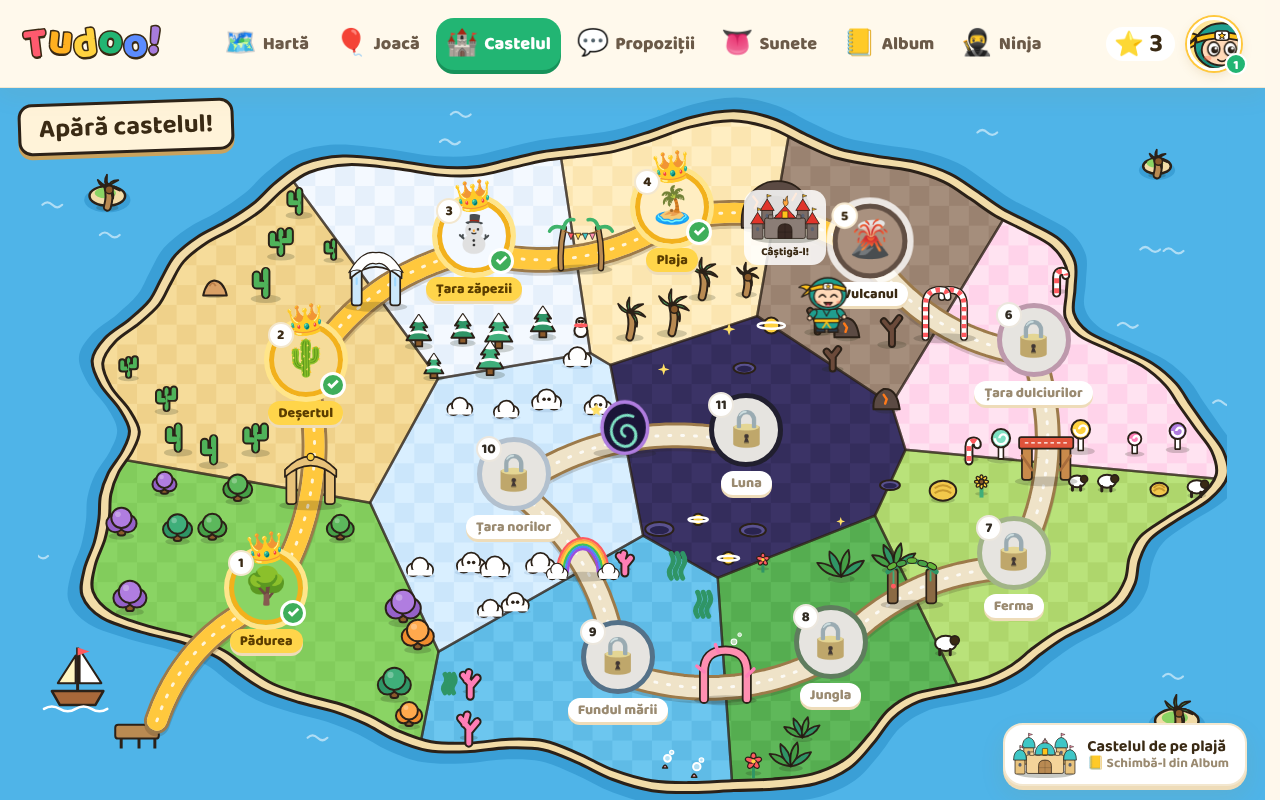
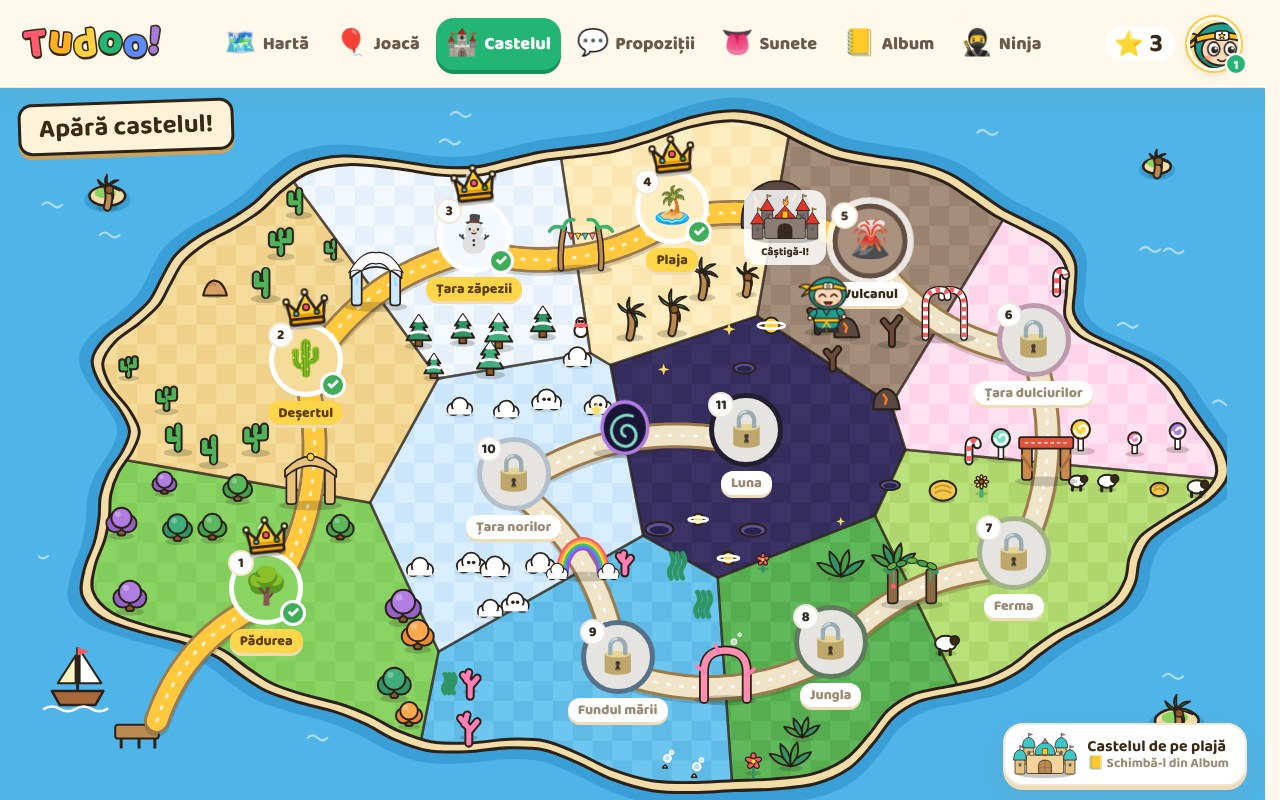
Castelul: bigger crown and white border on finished lands (#76)
* Add 'Castelul' tower-defense mode: answer to earn coins, send friends against waves

Claude-Session: https://claude.ai/code/session_016fNXyxu9U2zyHjQozgnxy4

* Castelul stars on the new x3 scale (win 15)

Claude-Session: https://claude.ai/code/session_016fNXyxu9U2zyHjQozgnxy4

* Castelul: 5 new lands, castle stickers in the Album, questions asked in different ways

Claude-Session: https://claude.ai/code/session_016fNXyxu9U2zyHjQozgnxy4

* Castelul: 5 more lands with new path shapes (loop, snake, waves, steps, narrowing waves)

Claude-Session: https://claude.ai/code/session_016fNXyxu9U2zyHjQozgnxy4

* Castelul: the lands become one road, walked from stop to stop

Claude-Session: https://claude.ai/code/session_016fNXyxu9U2zyHjQozgnxy4

* Castelul road: drawn edges between lands, a gate into each land, more scenery

Claude-Session: https://claude.ai/code/session_016fNXyxu9U2zyHjQozgnxy4

* Castelul: horizontal island world map on desktop

Claude-Session: https://claude.ai/code/session_016fNXyxu9U2zyHjQozgnxy4

* Castelul: highlight finished lands, drop stop circle shadow

Claude-Session: https://claude.ai/code/session_016fNXyxu9U2zyHjQozgnxy4

* Castelul: island map fills the screen under the top bar on desktop

Claude-Session: https://claude.ai/code/session_016fNXyxu9U2zyHjQozgnxy4

* Castelul: bigger outlined crown and white border on finished lands

Claude-Session: https://claude.ai/code/session_016fNXyxu9U2zyHjQozgnxy4

---------

diff --git a/src/tower/Sprites.tsx b/src/tower/Sprites.tsx
@@ -150,3 +150,27 @@ export function SpriteIcon({ ally, size = 56 }: { ally: AllyKind; size?: number 
     </svg>
   )
 }
+
+/** Big outlined crown for finished lands on the maps. */
+export function Crown({ size = 48 }: { size?: number }) {
+  return (
+    <svg width={size} height={size * 0.8} viewBox="0 0 60 48" aria-hidden>
+      <path
+        d="M6 16 L18 28 L30 6 L42 28 L54 16 L50 40 L10 40 Z"
+        fill="#ffcf2e"
+        stroke="#2b2118"
+        strokeWidth="3.5"
+        strokeLinejoin="round"
+      />
+      <path d="M10 34 L50 34" stroke="#e59a00" strokeWidth="4" />
+      <rect x="9" y="38" width="42" height="7" rx="3" fill="#f5a400" stroke="#2b2118" strokeWidth="3.5" />
+      <circle cx="30" cy="24" r="4" fill="#ff4d6d" stroke="#2b2118" strokeWidth="2" />
+      <circle cx="17" cy="31" r="3" fill="#4fb4e8" stroke="#2b2118" strokeWidth="2" />
+      <circle cx="43" cy="31" r="3" fill="#3fae5a" stroke="#2b2118" strokeWidth="2" />
+      <circle cx="6" cy="15" r="3.5" fill="#fff3c4" stroke="#2b2118" strokeWidth="2.5" />
+      <circle cx="30" cy="5" r="3.5" fill="#fff3c4" stroke="#2b2118" strokeWidth="2.5" />
+      <circle cx="54" cy="15" r="3.5" fill="#fff3c4" stroke="#2b2118" strokeWidth="2.5" />
+      <path d="M22 14 L26 10" stroke="#fff" strokeWidth="2.5" strokeLinecap="round" opacity="0.8" />
+    </svg>
+  )
+}

diff --git a/src/tower/IslandMap.tsx b/src/tower/IslandMap.tsx
@@ -6,6 +6,7 @@ import { Mascot } from '../components/Mascot'
 import { sfx } from '../sfx'
 import { DRAW } from './Board'
 import { CastleSticker } from './castles'
+import { Crown } from './Sprites'
 import { Gate } from './LandsMap'
 import { MAPS, mapOpen } from './maps'
 
@@ -274,7 +275,7 @@ export function IslandMap({ wins, onPlay }: { wins: string[]; onPlay: (id: strin
             >
               <span className="td-stop-icon">{open ? m.icon : '🔒'}</span>
               <span className="td-stop-num">{i + 1}</span>
-              {won && <span className="td-stop-crown">👑</span>}
+              {won && <span className="td-stop-crown"><Crown /></span>}
               {won && <span className="td-stop-check">✓</span>}
             </button>
             <span className="td-stop-name">{m.name}</span>

diff --git a/src/tower/LandsMap.tsx b/src/tower/LandsMap.tsx
@@ -6,6 +6,7 @@ import { Mascot } from '../components/Mascot'
 import { sfx } from '../sfx'
 import { DRAW } from './Board'
 import { CastleSticker } from './castles'
+import { Crown } from './Sprites'
 import { MAPS, mapOpen, type Deco } from './maps'
 
 const W = 400
@@ -342,7 +343,7 @@ export function LandsMap({ wins, onPlay }: { wins: string[]; onPlay: (id: string
             >
               <span className="td-stop-icon">{open ? m.icon : '🔒'}</span>
               <span className="td-stop-num">{i + 1}</span>
-              {won && <span className="td-stop-crown">👑</span>}
+              {won && <span className="td-stop-crown"><Crown /></span>}
               {won && <span className="td-stop-check">✓</span>}
             </button>
             <span className="td-stop-name">{m.name}</span>

diff --git a/src/tower/tower.css b/src/tower/tower.css
@@ -754,14 +754,16 @@
 }
 /* finished lands: gold ring, crown on top, green tick, gold name */
 .td-stop-won .td-stop-btn {
-  border-color: #f2b11c !important;
-  outline: 5px solid #ffe58a;
+  border-color: #fff !important;
 }
 .td-stop-won .td-stop-crown {
   right: auto;
   left: 50%;
-  transform: translateX(-50%) rotate(-8deg);
-  top: -30px;
+  transform: translateX(-50%) rotate(-6deg);
+  top: -40px;
+  line-height: 0;
+  filter: drop-shadow(0 3px 0 rgba(43, 33, 24, 0.3));
+  z-index: 1;
 }
 .td-stop-check {
   position: absolute;
